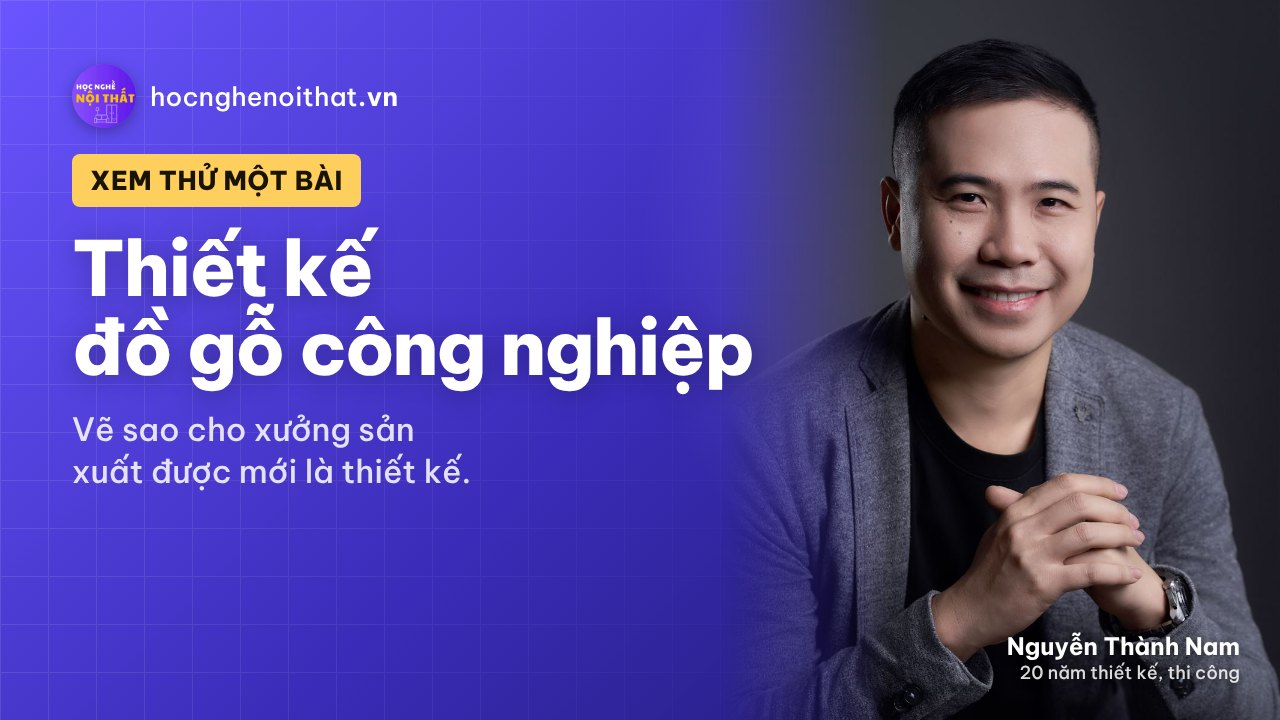
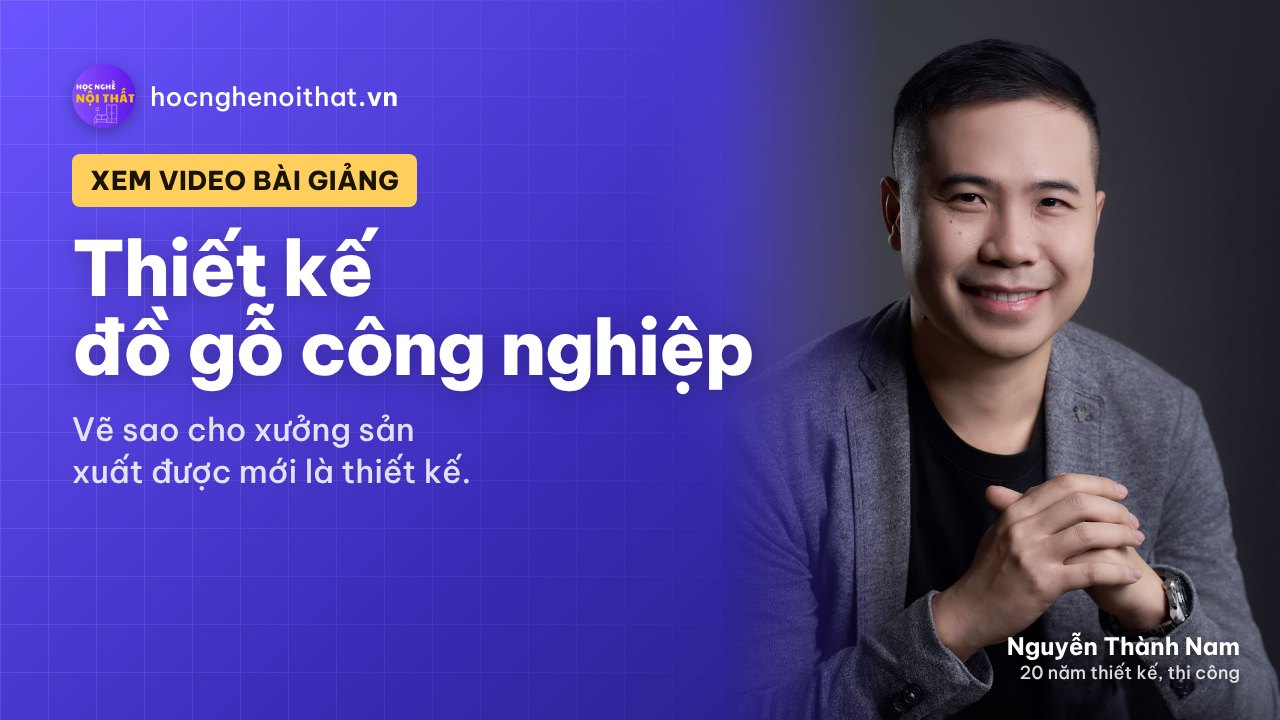
Đổi 'Xem thử một bài' thành 'Xem video bài giảng' (thumbnail khoá đồ gỗ và trang khoá học)
Claude-Session: https://claude.ai/code/session_01R1JQNXKSkK2vrspryuBMNZ

Changed region(s): [[0.125, 0.2139, 0.3438, 0.3056]]

diff --git a/khoa-hoc/do-go.html b/khoa-hoc/do-go.html
@@ -36,11 +36,11 @@
         <div class="price">3.000.000 <small>đ · bộ video</small></div>
         <div class="acts"><a class="btn" href="https://docs.google.com/forms/d/e/1FAIpQLSfQxAkoKXSXmKOlOiXHCPoDMdVTEEzLfocBijmvAzzzoXNQAg/viewform" target="_blank" rel="noopener">Đăng ký khoá học ›</a><a class="btn btn-ghost" href="https://zalo.me/0988504858" target="_blank" rel="noopener">Hỏi Nam qua Zalo</a></div>
       </div>
-      <div><div class="yt" data-id="RMaDNY6P_i0"><a class="yt-btn" href="https://youtu.be/RMaDNY6P_i0" target="_blank" rel="noopener" aria-label="Phát video: Xem thử một bài học"><img src="../anh/video-do-go.jpg" alt="" loading="lazy" decoding="async"><span class="yt-play" aria-hidden="true"></span></a></div></div>
+      <div><div class="yt" data-id="RMaDNY6P_i0"><a class="yt-btn" href="https://youtu.be/RMaDNY6P_i0" target="_blank" rel="noopener" aria-label="Phát video: Xem video bài giảng"><img src="../anh/video-do-go.jpg" alt="" loading="lazy" decoding="async"><span class="yt-play" aria-hidden="true"></span></a></div></div>
     </div>
   </section>
   <div class="wrap body">
-    <section class="blk"><h2>Khoá này hợp với ai nhỉ?</h2><ul class="ticks"><li>Kiến trúc sư, người đang vẽ 3D theo mẫu hoặc theo chỉ đạo của leader</li><li>Người chưa biết chọn vật liệu, kết cấu, phụ kiện</li><li>Người chưa dám nhận thi công</li></ul></section><section class="blk"><h2>Anh em sẽ học được gì?</h2><ol class="lessons"><li><span class="n">01</span>Vật liệu gỗ công nghiệp, phương thức sản xuất</li><li><span class="n">02</span>Liên kết và hoàn thiện bề mặt</li><li><span class="n">03</span>Đo đạc, khảo sát</li><li><span class="n">04</span>Thiết kế tủ áo, tủ giày, tủ bếp, giường, vách</li><li><span class="n">05</span>Triển khai bằng SketchUp</li><li><span class="n">06</span>Chọn vật liệu hợp túi tiền chủ nhà</li></ol></section><section class="blk blk-tint c-violet"><h2>Học xong làm được gì?</h2><ul class="ticks light"><li>Ra bản vẽ đồ gỗ mà xưởng đọc là sản xuất được, không phải hỏi lại</li><li>Tự chọn vật liệu, liên kết, phụ kiện cho từng món đồ</li><li>Đủ tự tin để nhận cả thiết kế lẫn thi công đồ gỗ</li></ul></section><section class="blk"><h2>Xem thử vài bài</h2><div class="vgrid"><div class="wait">Nam đang chọn thêm vài video bài học để anh em xem thử. Sắp có.</div></div></section><section class="blk"><h2>Hình ảnh minh hoạ</h2><div class="pgrid"><div class="wait">Ảnh minh hoạ cho khoá này đang được cập nhật.</div></div></section><section class="blk"><h2>Học xong có ai hỗ trợ không?</h2><p class="txt">Gửi bài vào nhóm Facebook học viên, Nam nhận xét.</p></section><section class="blk"><h2>Đăng ký thế nào?</h2><ol class="how">
+    <section class="blk"><h2>Khoá này hợp với ai nhỉ?</h2><ul class="ticks"><li>Kiến trúc sư, người đang vẽ 3D theo mẫu hoặc theo chỉ đạo của leader</li><li>Người chưa biết chọn vật liệu, kết cấu, phụ kiện</li><li>Người chưa dám nhận thi công</li></ul></section><section class="blk"><h2>Anh em sẽ học được gì?</h2><ol class="lessons"><li><span class="n">01</span>Vật liệu gỗ công nghiệp, phương thức sản xuất</li><li><span class="n">02</span>Liên kết và hoàn thiện bề mặt</li><li><span class="n">03</span>Đo đạc, khảo sát</li><li><span class="n">04</span>Thiết kế tủ áo, tủ giày, tủ bếp, giường, vách</li><li><span class="n">05</span>Triển khai bằng SketchUp</li><li><span class="n">06</span>Chọn vật liệu hợp túi tiền chủ nhà</li></ol></section><section class="blk blk-tint c-violet"><h2>Học xong làm được gì?</h2><ul class="ticks light"><li>Ra bản vẽ đồ gỗ mà xưởng đọc là sản xuất được, không phải hỏi lại</li><li>Tự chọn vật liệu, liên kết, phụ kiện cho từng món đồ</li><li>Đủ tự tin để nhận cả thiết kế lẫn thi công đồ gỗ</li></ul></section><section class="blk"><h2>Xem video bài giảng</h2><div class="vgrid"><div class="wait">Nam đang chọn thêm vài video bài học để anh em xem thử. Sắp có.</div></div></section><section class="blk"><h2>Hình ảnh minh hoạ</h2><div class="pgrid"><div class="wait">Ảnh minh hoạ cho khoá này đang được cập nhật.</div></div></section><section class="blk"><h2>Học xong có ai hỗ trợ không?</h2><p class="txt">Gửi bài vào nhóm Facebook học viên, Nam nhận xét.</p></section><section class="blk"><h2>Đăng ký thế nào?</h2><ol class="how">
       <li><b>1</b><span>Điền form đăng ký</span></li><li><b>2</b><span>Chuyển khoản qua mã QR</span></li>
       <li><b>3</b><span>Nhắn Zalo cho Nam xác nhận</span></li><li><b>4</b><span>Nhận link video qua email, học lại lúc nào cũng được</span></li></ol></section>
     <section class="cta-band c-violet">

diff --git a/khoa-hoc/nha-o.html b/khoa-hoc/nha-o.html
@@ -40,7 +40,7 @@
     </div>
   </section>
   <div class="wrap body">
-    <section class="blk"><h2>Khoá này hợp với ai nhỉ?</h2><ul class="ticks"><li>Sinh viên chưa làm nhiều đồ án nhà ở</li><li>Người đã đi làm nhưng mới làm một phần: dựng 3D theo ý sếp, triển khai 2D theo 3D người khác</li></ul></section><section class="blk"><h2>Anh em sẽ học được gì?</h2><ol class="lessons"><li><span class="n">01</span>Khảo sát, ghi nhận yêu cầu</li><li><span class="n">02</span>Concept, moodboard</li><li><span class="n">03</span>Bảng vật liệu</li><li><span class="n">04</span>Mặt bằng</li><li><span class="n">05</span>Điện nước, điều hoà, chiếu sáng</li><li><span class="n">06</span>Trần, sàn, phào chỉ</li><li><span class="n">07</span>Bản vẽ đồ gỗ</li><li><span class="n">08</span>Chọn vật liệu</li></ol></section><section class="blk blk-tint c-blue"><h2>Học xong làm được gì?</h2><ul class="ticks light"><li>Tự làm được một dự án nhà ở từ khảo sát tới bản vẽ đồ gỗ</li><li>Nói chuyện được với chủ nhà từ buổi gặp đầu tiên</li></ul></section><section class="blk"><h2>Xem thử vài bài</h2><div class="vgrid"><div class="wait">Nam đang chọn thêm vài video bài học để anh em xem thử. Sắp có.</div></div></section><section class="blk"><h2>Hình ảnh minh hoạ</h2><div class="pgrid"><figure><img src="../anh/can-ho-phong-khach.jpg" alt="Một căn hộ Nam đã làm" loading="lazy" decoding="async"><figcaption>Một căn hộ Nam đã làm</figcaption></figure></div></section><section class="blk"><h2>Đăng ký thế nào?</h2><ol class="how">
+    <section class="blk"><h2>Khoá này hợp với ai nhỉ?</h2><ul class="ticks"><li>Sinh viên chưa làm nhiều đồ án nhà ở</li><li>Người đã đi làm nhưng mới làm một phần: dựng 3D theo ý sếp, triển khai 2D theo 3D người khác</li></ul></section><section class="blk"><h2>Anh em sẽ học được gì?</h2><ol class="lessons"><li><span class="n">01</span>Khảo sát, ghi nhận yêu cầu</li><li><span class="n">02</span>Concept, moodboard</li><li><span class="n">03</span>Bảng vật liệu</li><li><span class="n">04</span>Mặt bằng</li><li><span class="n">05</span>Điện nước, điều hoà, chiếu sáng</li><li><span class="n">06</span>Trần, sàn, phào chỉ</li><li><span class="n">07</span>Bản vẽ đồ gỗ</li><li><span class="n">08</span>Chọn vật liệu</li></ol></section><section class="blk blk-tint c-blue"><h2>Học xong làm được gì?</h2><ul class="ticks light"><li>Tự làm được một dự án nhà ở từ khảo sát tới bản vẽ đồ gỗ</li><li>Nói chuyện được với chủ nhà từ buổi gặp đầu tiên</li></ul></section><section class="blk"><h2>Xem video bài giảng</h2><div class="vgrid"><div class="wait">Nam đang chọn thêm vài video bài học để anh em xem thử. Sắp có.</div></div></section><section class="blk"><h2>Hình ảnh minh hoạ</h2><div class="pgrid"><figure><img src="../anh/can-ho-phong-khach.jpg" alt="Một căn hộ Nam đã làm" loading="lazy" decoding="async"><figcaption>Một căn hộ Nam đã làm</figcaption></figure></div></section><section class="blk"><h2>Đăng ký thế nào?</h2><ol class="how">
       <li><b>1</b><span>Điền form đăng ký</span></li><li><b>2</b><span>Chuyển khoản qua mã QR</span></li>
       <li><b>3</b><span>Nhắn Zalo cho Nam xác nhận</span></li><li><b>4</b><span>Nhận link video qua email, học lại lúc nào cũng được</span></li></ol></section>
     <section class="cta-band c-blue">

diff --git a/khoa-hoc/du-toan.html b/khoa-hoc/du-toan.html
@@ -40,7 +40,7 @@
     </div>
   </section>
   <div class="wrap body">
-    <section class="blk"><h2>Khoá này hợp với ai nhỉ?</h2><ul class="ticks"><li>Người chưa từng làm dự toán</li><li>Người sắp tự đứng ra nhận công trình</li><li>Người còn yếu khâu báo giá</li></ul></section><section class="blk"><h2>Anh em sẽ học được gì?</h2><ol class="lessons"><li><span class="n">01</span>Dùng Excel làm báo giá</li><li><span class="n">02</span>Thống kê khối lượng</li><li><span class="n">03</span>Tính giá theo m², mét dài, cái, gói</li></ol></section><section class="blk blk-tint c-teal"><h2>Học xong làm được gì?</h2><ul class="ticks light"><li>Tự lập báo giá cho một công trình nội thất</li><li>Biết mình đang lãi lỗ ở đâu trước khi ký hợp đồng</li></ul></section><section class="blk"><h2>Xem thử vài bài</h2><div class="vgrid"><div class="wait">Nam đang chọn thêm vài video bài học để anh em xem thử. Sắp có.</div></div></section><section class="blk"><h2>Hình ảnh minh hoạ</h2><div class="pgrid"><figure><img src="../anh/cua-hang-giay.jpg" alt="Cửa hàng giày Nam làm, dùng làm ví dụ trong khoá" loading="lazy" decoding="async"><figcaption>Cửa hàng giày Nam làm, dùng làm ví dụ trong khoá</figcaption></figure></div></section><section class="blk"><h2>Đăng ký thế nào?</h2><ol class="how">
+    <section class="blk"><h2>Khoá này hợp với ai nhỉ?</h2><ul class="ticks"><li>Người chưa từng làm dự toán</li><li>Người sắp tự đứng ra nhận công trình</li><li>Người còn yếu khâu báo giá</li></ul></section><section class="blk"><h2>Anh em sẽ học được gì?</h2><ol class="lessons"><li><span class="n">01</span>Dùng Excel làm báo giá</li><li><span class="n">02</span>Thống kê khối lượng</li><li><span class="n">03</span>Tính giá theo m², mét dài, cái, gói</li></ol></section><section class="blk blk-tint c-teal"><h2>Học xong làm được gì?</h2><ul class="ticks light"><li>Tự lập báo giá cho một công trình nội thất</li><li>Biết mình đang lãi lỗ ở đâu trước khi ký hợp đồng</li></ul></section><section class="blk"><h2>Xem video bài giảng</h2><div class="vgrid"><div class="wait">Nam đang chọn thêm vài video bài học để anh em xem thử. Sắp có.</div></div></section><section class="blk"><h2>Hình ảnh minh hoạ</h2><div class="pgrid"><figure><img src="../anh/cua-hang-giay.jpg" alt="Cửa hàng giày Nam làm, dùng làm ví dụ trong khoá" loading="lazy" decoding="async"><figcaption>Cửa hàng giày Nam làm, dùng làm ví dụ trong khoá</figcaption></figure></div></section><section class="blk"><h2>Đăng ký thế nào?</h2><ol class="how">
       <li><b>1</b><span>Điền form đăng ký</span></li><li><b>2</b><span>Chuyển khoản qua mã QR</span></li>
       <li><b>3</b><span>Nhắn Zalo cho Nam xác nhận</span></li><li><b>4</b><span>Nhận link video qua email, học lại lúc nào cũng được</span></li></ol></section>
     <section class="cta-band c-teal">

diff --git a/khoa-hoc/sale.html b/khoa-hoc/sale.html
@@ -40,7 +40,7 @@
     </div>
   </section>
   <div class="wrap body">
-    <section class="blk"><h2>Khoá này hợp với ai nhỉ?</h2><ul class="ticks"><li>Người làm sale nội thất</li></ul></section><section class="blk"><h2>Anh em sẽ học được gì?</h2><ol class="lessons"><li><span class="n">01</span>Hiểu vật liệu để tư vấn sơ bộ</li><li><span class="n">02</span>Quy trình sản xuất và thiết kế thi công</li><li><span class="n">03</span>Phối hợp với thiết kế và xưởng</li><li><span class="n">04</span>Nắm bắt nhu cầu khách để giao đề bài đúng cho đội thiết kế</li></ol></section><section class="blk blk-tint c-plum"><h2>Học xong làm được gì?</h2><ul class="ticks light"><li>Tư vấn sơ bộ cho khách mà không phải chờ thiết kế</li><li>Giao đề bài rõ ràng, đội thiết kế đỡ làm đi làm lại</li></ul></section><section class="blk"><h2>Xem thử vài bài</h2><div class="vgrid"><div class="wait">Nam đang chọn thêm vài video bài học để anh em xem thử. Sắp có.</div></div></section><section class="blk"><h2>Hình ảnh minh hoạ</h2><div class="pgrid"><div class="wait">Ảnh minh hoạ cho khoá này đang được cập nhật.</div></div></section><section class="blk"><h2>Đăng ký thế nào?</h2><ol class="how">
+    <section class="blk"><h2>Khoá này hợp với ai nhỉ?</h2><ul class="ticks"><li>Người làm sale nội thất</li></ul></section><section class="blk"><h2>Anh em sẽ học được gì?</h2><ol class="lessons"><li><span class="n">01</span>Hiểu vật liệu để tư vấn sơ bộ</li><li><span class="n">02</span>Quy trình sản xuất và thiết kế thi công</li><li><span class="n">03</span>Phối hợp với thiết kế và xưởng</li><li><span class="n">04</span>Nắm bắt nhu cầu khách để giao đề bài đúng cho đội thiết kế</li></ol></section><section class="blk blk-tint c-plum"><h2>Học xong làm được gì?</h2><ul class="ticks light"><li>Tư vấn sơ bộ cho khách mà không phải chờ thiết kế</li><li>Giao đề bài rõ ràng, đội thiết kế đỡ làm đi làm lại</li></ul></section><section class="blk"><h2>Xem video bài giảng</h2><div class="vgrid"><div class="wait">Nam đang chọn thêm vài video bài học để anh em xem thử. Sắp có.</div></div></section><section class="blk"><h2>Hình ảnh minh hoạ</h2><div class="pgrid"><div class="wait">Ảnh minh hoạ cho khoá này đang được cập nhật.</div></div></section><section class="blk"><h2>Đăng ký thế nào?</h2><ol class="how">
       <li><b>1</b><span>Điền form đăng ký</span></li><li><b>2</b><span>Chuyển khoản qua mã QR</span></li>
       <li><b>3</b><span>Nhắn Zalo cho Nam xác nhận</span></li><li><b>4</b><span>Nhận link video qua email, học lại lúc nào cũng được</span></li></ol></section>
     <section class="cta-band c-plum">

diff --git a/khoa-hoc/cnc.html b/khoa-hoc/cnc.html
@@ -40,7 +40,7 @@
     </div>
   </section>
   <div class="wrap body">
-    <section class="blk"><h2>Anh em sẽ học được gì?</h2><ol class="lessons"><li><span class="n">01</span>Quy trình từ lúc chốt mẫu với khách tới khi ra file cắt gỗ</li><li><span class="n">02</span>Cách tránh hỏng ván, mất tiền</li><li><span class="n">03</span>Tham quan xưởng sản xuất ở Hà Nội</li></ol></section><section class="blk blk-tint c-slate"><h2>Học xong làm được gì?</h2><ul class="ticks light"><li>Tự ra file cắt cho xưởng mình</li><li>Làm cộng tác viên ra file cho xưởng khác</li></ul></section><section class="blk"><h2>Xem thử vài bài</h2><div class="vgrid"><div class="wait">Nam đang chọn thêm vài video bài học để anh em xem thử. Sắp có.</div></div></section><section class="blk"><h2>Hình ảnh minh hoạ</h2><div class="pgrid"><div class="wait">Ảnh minh hoạ cho khoá này đang được cập nhật.</div></div></section><section class="blk"><h2>Đăng ký thế nào?</h2><ol class="how">
+    <section class="blk"><h2>Anh em sẽ học được gì?</h2><ol class="lessons"><li><span class="n">01</span>Quy trình từ lúc chốt mẫu với khách tới khi ra file cắt gỗ</li><li><span class="n">02</span>Cách tránh hỏng ván, mất tiền</li><li><span class="n">03</span>Tham quan xưởng sản xuất ở Hà Nội</li></ol></section><section class="blk blk-tint c-slate"><h2>Học xong làm được gì?</h2><ul class="ticks light"><li>Tự ra file cắt cho xưởng mình</li><li>Làm cộng tác viên ra file cho xưởng khác</li></ul></section><section class="blk"><h2>Xem video bài giảng</h2><div class="vgrid"><div class="wait">Nam đang chọn thêm vài video bài học để anh em xem thử. Sắp có.</div></div></section><section class="blk"><h2>Hình ảnh minh hoạ</h2><div class="pgrid"><div class="wait">Ảnh minh hoạ cho khoá này đang được cập nhật.</div></div></section><section class="blk"><h2>Đăng ký thế nào?</h2><ol class="how">
       <li><b>1</b><span>Điền form đăng ký</span></li><li><b>2</b><span>Chuyển khoản qua mã QR</span></li>
       <li><b>3</b><span>Nhắn Zalo cho Nam xác nhận</span></li><li><b>4</b><span>Nhận link video qua email, học lại lúc nào cũng được</span></li></ol></section>
     <section class="cta-band c-slate">

diff --git a/cong-cu/thumbnail/tao.js b/cong-cu/thumbnail/tao.js
@@ -2,7 +2,7 @@
 const {chromium}=require('playwright');const path=require('path');
 const goc=path.resolve(__dirname,'..','..');
 const ds=[
- ['do-go','violet','Xem thử một bài','Thiết kế|đồ gỗ công nghiệp','Vẽ sao cho xưởng sản xuất được mới là thiết kế.'],
+ ['do-go','violet','Xem video bài giảng','Thiết kế|đồ gỗ công nghiệp','Vẽ sao cho xưởng sản xuất được mới là thiết kế.'],
  ['nha-o','blue','Khoá học video','Thiết kế|nội thất nhà ở','Tự làm một dự án nhà ở từ đầu đến cuối.'],
  ['du-toan','teal','Khoá học video','Dự toán|thi công nội thất','Làm báo giá bằng Excel, từ file báo giá thật.'],
  ['sale','plum','Khoá học video','Tư vấn thiết kế|cho sale nội thất','Hiểu vật liệu, hiểu xưởng, giao đề bài đúng.'],

diff --git a/cong-cu/tao-khoa-hoc.py b/cong-cu/tao-khoa-hoc.py
@@ -5,7 +5,7 @@ Sửa nội dung ở danh sách KHOA bên dưới rồi chạy:
     python3 cong-cu/tao-khoa-hoc.py
 
 - video: danh sách (mã YouTube, tên video). Video đầu tiên hiện to ở đầu trang,
-  các video sau vào mục "Xem thử vài bài".
+  các video sau vào mục "Xem video bài giảng".
 - anh: danh sách (đường dẫn ảnh trong thư mục anh/, chú thích). Để trống thì hiện ô chờ ảnh.
 """
 import html, pathlib
@@ -32,7 +32,7 @@ KHOA = [
                  'Tự chọn vật liệu, liên kết, phụ kiện cho từng món đồ',
                  'Đủ tự tin để nhận cả thiết kế lẫn thi công đồ gỗ'],
        ho_tro='Gửi bài vào nhóm Facebook học viên, Nam nhận xét.',
-       video=[('RMaDNY6P_i0', 'Xem thử một bài học')], anh=[]),
+       video=[('RMaDNY6P_i0', 'Xem video bài giảng')], anh=[]),
   dict(ten='nha-o', mau='c-blue', nhan='Tập trung căn hộ chung cư',
        tieu_de='Thiết kế nội thất nhà ở',
        cau1='Thôi dựng 3D theo ý sếp.', cau2='Tự làm được một dự án nhà ở từ đầu đến cuối.',
@@ -110,7 +110,7 @@ def trang(k, cac):
     vbox = ''.join(f'<figure>{yt(v, t)}<figcaption>{e(t)}</figcaption></figure>' for v, t in them)
     if not them:
         vbox = '<div class="wait">Nam đang chọn thêm vài video bài học để anh em xem thử. Sắp có.</div>'
-    khoi.append(f'<section class="blk"><h2>Xem thử vài bài</h2><div class="vgrid">{vbox}</div></section>')
+    khoi.append(f'<section class="blk"><h2>Xem video bài giảng</h2><div class="vgrid">{vbox}</div></section>')
     abox = ''.join(f'<figure><img src="../{a}" alt="{e(c)}" loading="lazy" decoding="async"><figcaption>{e(c)}</figcaption></figure>' for a, c in k['anh'])
     if not k['anh']:
         abox = '<div class="wait">Ảnh minh hoạ cho khoá này đang được cập nhật.</div>'
